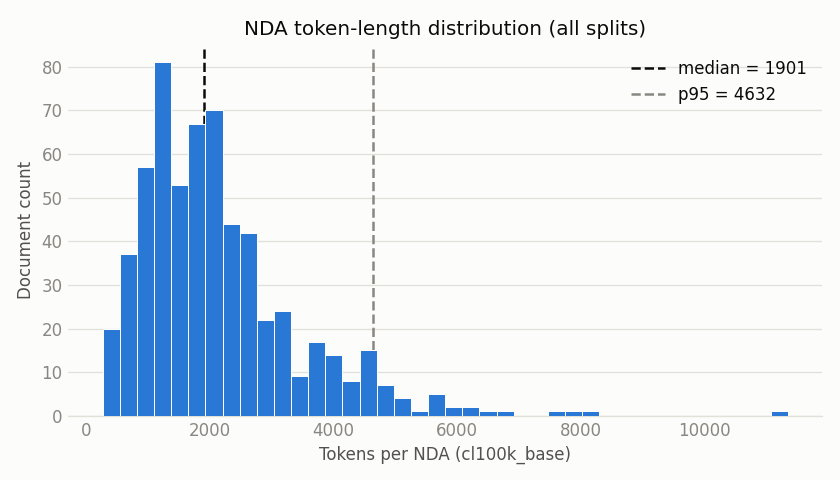
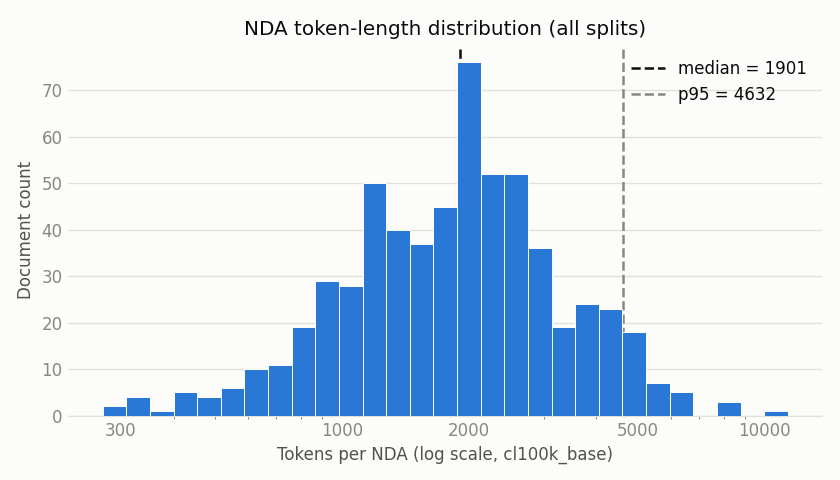
Redesign both data-validation charts - wrong form, not just wrong colors
Label distribution: was a grouped raw-count bar chart, which buries the
actual question (is class balance consistent across splits?) since train
(3.5k+ cases) visually dwarfs dev/test (400-900 cases). Switched to a
100%-stacked horizontal bar with direct percentage labels - part-to-whole
is the right form for this per the dataviz skill's form guide, and now
the near-identical balance across splits (46-50% / 9-12% / 39-43%) is
immediately visible.

Token-length histogram: linear bins wasted ~40% of the chart on the long
tail (up to 11,340 tokens) while cramming the bulk of documents (500-5,000
tokens) into a third of the width. Switched to log-spaced bins on a log
x-axis, standard fix for this kind of right-skewed distribution - full
shape now visible without dead space.

Also removed a stray empty cell and extended pipeline/viz_style.py's
style_axes() with a grid_axis parameter for horizontal-bar charts.

diff --git a/pipeline/viz_style.py b/pipeline/viz_style.py
@@ -74,13 +74,18 @@ def apply_style() -> None:
     })
 
 
-def style_axes(ax) -> None:
-    """Recessive spines/grid per the dataviz skill's mark specs. Call per-axes."""
+def style_axes(ax, grid_axis: str = "y") -> None:
+    """
+    Recessive spines/grid per the dataviz skill's mark specs. Call per-axes.
+
+    grid_axis: "y" for vertical bars/histograms (default), "x" for
+    horizontal bars, where values run along the x-axis instead.
+    """
     ax.spines["top"].set_visible(False)
     ax.spines["right"].set_visible(False)
     ax.spines["left"].set_visible(False)
-    ax.grid(axis="y", zorder=0)
-    ax.grid(axis="x", visible=False)
+    ax.grid(axis=grid_axis, zorder=0)
+    ax.grid(axis="x" if grid_axis == "y" else "y", visible=False)
     ax.tick_params(length=0)
 
 
